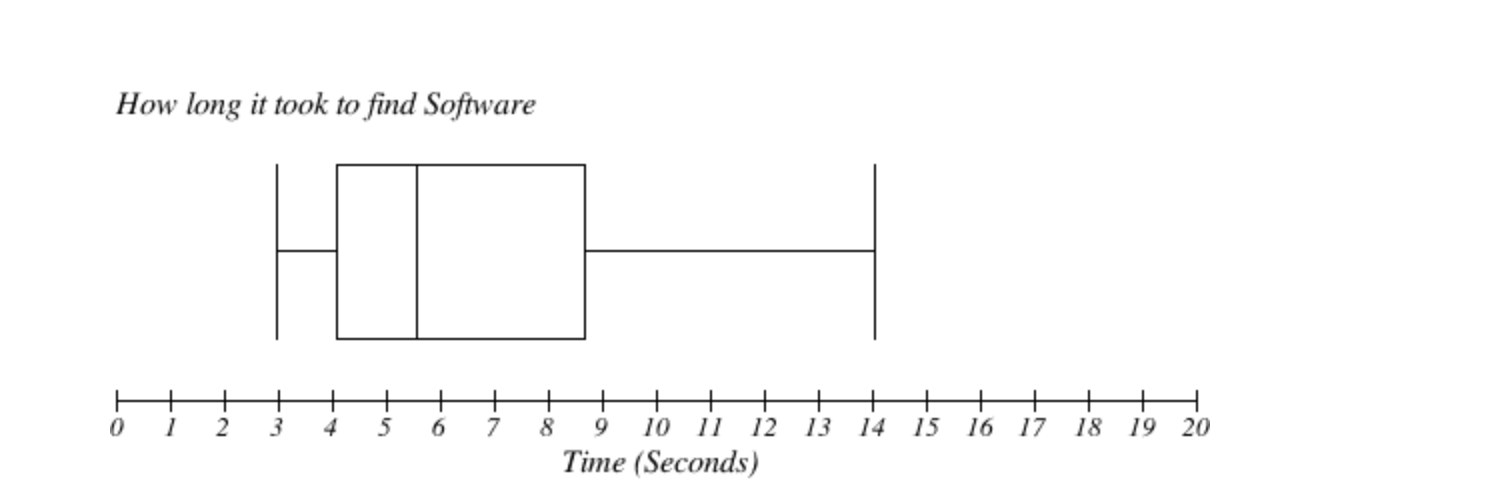
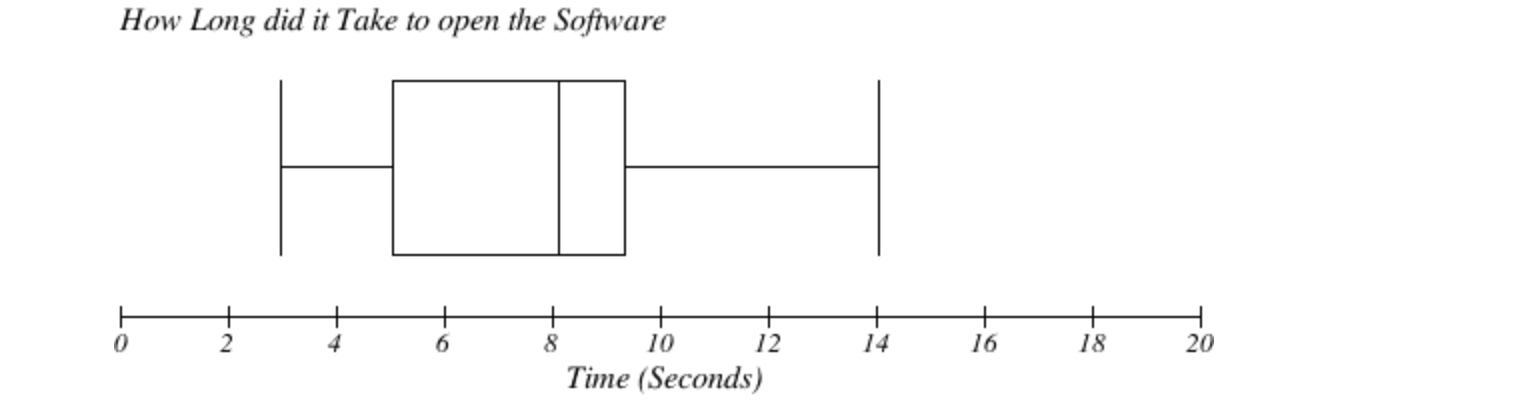
Final Draft Commit

diff --git a/src/Analysis.js b/src/Analysis.js
@@ -10,12 +10,12 @@ class Method extends Component {
         <p>To make an accurate claim on which software is the most preferred, we will group the users based on what software they preferred. To more accurately show this, we created a pie graph that shows what percentage of users that used which software. As our data was inputted into Microsoft Excel, we can highlight all the data and turn it into a Pie Chart that shows the percentage of users used which software.</p>
         <h4>Pie Graph Show User Software Preference</h4>
         <img src={PieGraph} width={600} height={300} mode='fit' alt="Pie Graph" />;
-        <p>The Pie Chart shows that out of our 15 user pool X% used the software “Messenger” Whereas only Y% used “AirDrop” and only Z% used “Email.” From these results, we can see that Messenger was the preferred photo sharing software out of the available photo sharing software options.</p>
-        <p>From our observations into software preference, we looked into repeatability. Such as whether or not users would use their chosen software again. Also, we recorded which users used what software.</p>
+        <p>The Pie Chart shows that out of our 15 user pool 60% used the software “Messenger”. Whereas only 33.3% used “Air Drop” and only 6.7% used “Email”. From these results we can see that Messenger was the prefered photo sharing software out of the available photo sharing softwares.</p>
+        <p>From our observations into software preference we looked into repeatability. Such as whether or not users would use their chosen software again. In addition we recorded which users used what software.</p>
         <img src={PieGraphTable} width={650} height={400} mode='fit' alt="Pie Graph" />;
-        <p>Through our questioning, we found that 90% of users would use the software again. To understand why they would want to use it again, we questioned them on their reasoning behind using it. From our questioning, we learned that the reason is that it is intuitive and accessible. This information was backed up by the previous question asking them about their experience going through the process of sharing a photo using their preferred software.</p>
+        <p>Through our questioning, we found that 90% of users would use the software again. To understand why they would want to use it again, we questioned them on their reasoning behind using it. From our questioning, we learned that the reason is that it is intuitive and accessible.<br></br> This information was backed up by the previous question asking them about their experience going through the process of sharing a photo using their preferred software.</p>
         <img src={PieGraphEasy} width={650} height={400} mode='fit' alt="Pie Graph" />;
-        <p>From this graph, we can note that the 20% mark was from users who used AirDrop, that commented on the fact that it is the simplest way of sharing photos for iPhone users. The 10% for “Hard” came from the one user that used Email to send a photo, who noted that there are probably faster ways of sharing images to other people. With the majority consensus of the process being “Very Easy” coming from the users who used the software Messenger to share an image.</p>
+        <p>From this graph, we can note that the 20% mark was from users who used AirDrop, that commented on the fact that it is the simplest way of sharing photos for iPhone users. <br></br>The 10% for “Hard” came from the one user that used Email to send a photo, who noted that there are probably faster ways of sharing images to other people. With the majority consensus of the process being “Very Easy” coming from the users who used the software Messenger to share an image.</p>
         <h3>From our observation: </h3>
         <p>Messenger was the most common method of file sharing even for iOS users, despite having services such as AirDrop. This is likely to do with the fact that Facebook messenger is one of the largest and most popular social media platforms. Facebook Messenger features its file sharing method within the app; however, the drawback is that it compresses the image. We asked our participants about their thoughts on the compression of the image, and the feedback we received was mostly that it did not affect them for a majority of the images that they send during their personal use or that they never really noticed it. Some users had told us that they would have considered another method of sharing if the photo needed to remain original quality and size that it was taken in. </p>
       </div>

diff --git a/src/Individual.js b/src/Individual.js
@@ -13,8 +13,19 @@ class Method extends Component {
         </p>
         <p>Overall I enjoyed my role in this project and took the advantages provided to me through the Applied Human Computer Interaction paper to build upon my learnings as a Network Security Major student as well as to broaden my understanding of Human Computer Interaction . Overall I found that this paper has helped my understanding and has aided me in further understanding my own Research And Development Project.</p>
         <h2>Michael Xie:15901507 </h2>
-        <p>Write Here
+        <p>Going into this assignment I had little knowledge of what was involved in Human-Computer Interaction. I never knew how big of an impact it had on today's market for technology, and that it is one of the key aspects to consider when developing any piece of tech or software for human consumption. Along with this, I have also come to realize that a lot of evolution in technology has also come this far due to the Human-Computer Interaction field of study, and without it we would not be where we are today. 
         </p>
+        <p>For this assignment, my group and I decided to go with the research topic of “What File Sharing Method via Smartphones is Most Efficient?” This idea was brought to my attention when I was trying to share a photo with two of my friends via my iPhone. One of them used an iPhone and the other used a Huawei phone, running an Android operating system. For the iPhone, I was able to use AirDrop; an iPhone feature restricted to only Apple devices but I was yet to still find a method of file sharing for the the Android device. I was left with questions like:</p>
+        <li>What sharing method is most popular?</li>
+        <li>Will the method compress the image?</li>
+        <li>Is AirDrop really that much more efficient than the other methods?</li>
+        <li>What is the fastest method of sharing this image?</li>
+        <li>What is the most optimal and efficient method of photo sharing?</li>
+        <p>This lead to being a great research topic for our group as it showed me that such a simple task had so many more layers to it than we realize in our day to day lives.
+
+For this assignment, all of us took turns at being the interviewer, timer and recipient of the image, however my main role was being the timer and recipient. Along with this, I also documented our findings and found that the results were quite astonishing. 
+</p>
+<p>Overall, I can say that really enjoyed undertaking this experiment as it taught me a lot about what goes on behind the scenes with HCI. Prior to this assignment and paper, I had no experience in this field of work at all, therefore I had extremely limited knowledge about HCI. The knowledge I have gained from this assignment is definitely something that I can apply to my studies and work field in the future. I definitely look forward to applying this to my Software Engineering career after I finish my studies. </p>
         <h2>Hamish Maritz:1383425 </h2>
         <p>From this assignment, I have learned to question more when it comes to human interaction around technology. Using technology daily and not asking how it functions is something that we tend to brush over and expect it to work without a second thought. Applied Human-Computer Interaction has taught me that there is more when it comes to the interfaces between humans and computers.
         </p>

diff --git a/src/Conclusion.js b/src/Conclusion.js
@@ -5,10 +5,16 @@ class Method extends Component {
     return (
       <div>
         <h2>Conclusion</h2>
-        <p>In conclusion, we can see from our results that Facebook messenger was the most popular method of file sharing amongst our sample of 15. 
-          <br></br>We found that what people often associated with their “most efficient” method of file sharing largely correlated with their familiarity with the method itself.</p> 
-          <p> As stated earlier in our analysis, Facebook Messenger in New Zealand is one of the largest platforms of social media, so it it no surprise that XYZ% preferred to<br></br> use Facebook Messenger over other methods, despite the compression of the images.</p>
-          <p> It is also likely that users did not care about the compression of the image, as the image we asked them to share was a stock image pulled off of Google Images<br></br> that maintained no sentimental value.</p>
+        <p>In Conclusion, <br></br><br></br>
+        we can see that no one particular method was perfect; each method had its unique drawbacks. Examples of this would be: AirDrop, although seemingly the fastest and most efficient for iOS users, our results showed that it was slower than Facebook Messenger. Furthermore, AirDrop is limited to iOS devices only, meaning Android users are unable to receive and send files via this method. Meanwhile, Facebook Messenger was unable to maintain the original image quality and therefore sent a slightly lower quality version of the image and required both sender and recipient to have established a connection online with each other via friend or message request. Participants in the study did not seem too interested in any of the other given methods except for one outlier using Email, which took significantly longer than the different two ways but sent the image in its original, unaltered state.
+        </p>
+        <p>
+        We can see from our experiment that Facebook Messenger was the most popular method of file sharing amongst our sample size of 15. We found that what people often associated with their “most efficient” means of file sharing mostly correlated with their familiarity with the method itself. As stated earlier in our analysis, Facebook Messenger in New Zealand is one of the largest platforms of social media, so it no surprise that 60% preferred to use Facebook Messenger over other methods, despite the compression of the images. It is also likely that users did not care about the compression of the image, as the image we asked them to share was a stock image pulled off of Google Images that maintained no sentimental value. 
+        </p>
+        <p>
+        Upon completing our experiments, we realized that we had not considered the Hawthorne effect, which states that subjects may behave differently when they are aware that they are being observed. As a result of this, we realize that some of the results may vary to real-life applications due to being under examining the condition. However, our sample size of 15 should
+give us slightly more accurate results than if we were to go with smaller sample size. 
+        </p>
 
       </div>
     );

diff --git a/src/Data.js b/src/Data.js
@@ -1,7 +1,6 @@
 import React, { Component } from "react";
 import HowLongGraph from './images/howlonggraph.png'
 import HowLongShare from './images/howlongshare.png'
-import HowLongExcel from './images/howlongexcel.png'
 import {
   NavLink
 } from "react-router-dom";
@@ -12,16 +11,16 @@ class Method extends Component {
       <div>
         <h2>Data</h2>
         <p>Included in this section is the data that has been gathered from conducting the tests.<br></br> Using Box and Whispers Plot Graphs allows to handle the broad data effortlessly and provides a clear summary of results. </p>
-        <h3>How long it took to find a software</h3>
-        <img src={HowLongGraph} width={800} height={300} mode='fit' alt="Pie Graph" />;
+        <h3>How long did it take to open the software</h3>
+        <img src={HowLongGraph} width={800} height={300} mode='fit' alt="Pie Graph" />
         <p>Fig 1, using a Box and Whisker Plot</p>
-        <h3>How long it took to share a photo</h3>
-        <img src={HowLongShare} width={800} height={300} mode='fit' alt="Pie Graph" />;
+        <h3>How long it took to send an image</h3>
+        <img src={HowLongShare} width={800} height={300} mode='fit' alt="Pie Graph" />
         <p>Fig 2, using a Box and Whisker Plot
         </p>
         <p>From the box plots we can see how long it took for our user pool of 15 users to find the software they wanted to use, which on average took 6.73 (Seconds). <br></br>This shows a level of familiarity with the software and that the software stands out to the user. In addition by referring to Fig 2 we can see that it took some<br></br> users longer to share the photo than others but on average users took 8.021 (Seconds) to share a photo. A more in depth analysis is done on the <NavLink to="/analysis">Analysis Page</NavLink></p>
 
-    <h3>How long did it take to prepare the Software</h3>
+    <h3>How long did it take to open the software</h3>
     <table>
     <tr>
       <th>Users</th>
@@ -123,7 +122,7 @@ class Method extends Component {
     </tr>
 </table>
 
-<h3>How long did it took to send an image</h3>
+<h3>How long did it take to send an image</h3>
     <table>
     <tr>
       <th>Users</th>
